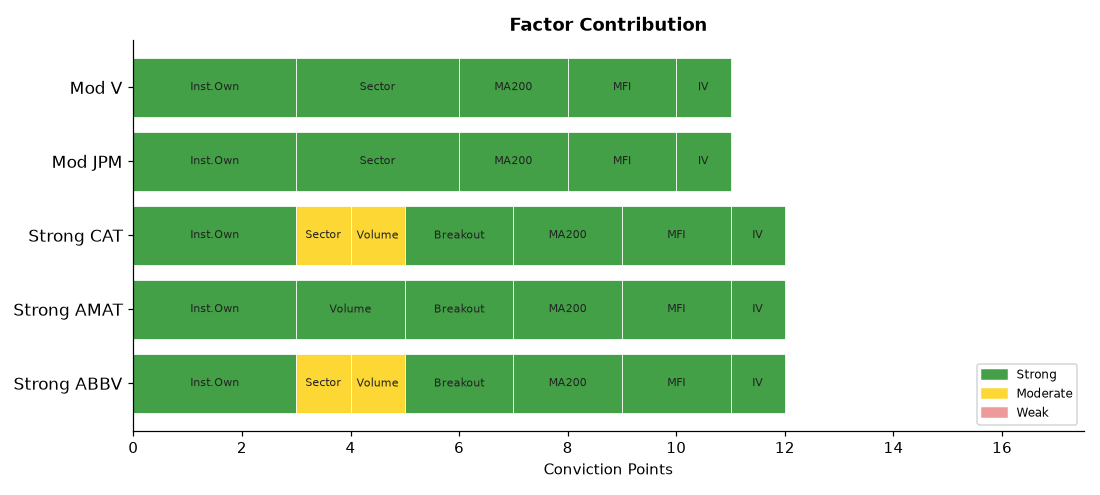
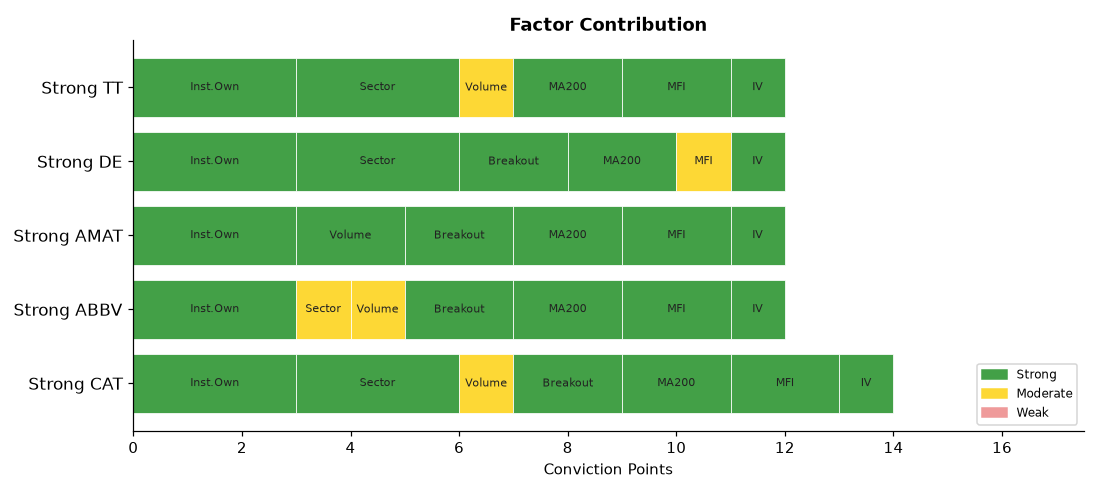
deploy: b7fadf5b06deb90e7ebb92f278722414bdd9750d

diff --git a/index.html b/index.html
@@ -4,7 +4,7 @@
   <meta charset="UTF-8">
   <meta name="viewport" content="width=device-width,initial-scale=1">
   <meta http-equiv="Cache-Control" content="no-cache,no-store,must-revalidate">
-  <title>Stock Breakout Screener — 2026-06-25 21:21</title>
+  <title>Stock Breakout Screener — 2026-06-25 23:11</title>
   <style>
     *{box-sizing:border-box;margin:0;padding:0}
     body{font-family:'Segoe UI',Arial,sans-serif;background:#f0f2f5;
@@ -34,20 +34,20 @@
 
 <div class="hdr">
   <h1>📈 Stock Breakout Screener</h1>
-  <p>Updated: 2026-06-25 21:21 UTC &nbsp;·&nbsp; Phase: After-Hours (4:00–8:00 PM ET) &nbsp;·&nbsp;
+  <p>Updated: 2026-06-25 23:11 UTC &nbsp;·&nbsp; Phase: After-Hours (4:00–8:00 PM ET) &nbsp;·&nbsp;
      129 stocks screened &nbsp;·&nbsp; Top 5 by conviction score</p>
 </div>
 
 <div class="card">
   <strong style="font-size:14px">Market Sentiment: 🐻 Bearish</strong>
   <div class="bar-wrap" style="margin-top:10px">
-    <div style="width:2%;background:#43a047"></div>
-    <div style="width:6%;background:#fdd835"></div>
+    <div style="width:4%;background:#43a047"></div>
+    <div style="width:4%;background:#fdd835"></div>
     <div style="width:92%;background:#e53935"></div>
   </div>
   <div style="font-size:12px;color:#555">
-    🟢 Strong 2% &nbsp;
-    🟡 Moderate 6% &nbsp;
+    🟢 Strong 4% &nbsp;
+    🟡 Moderate 4% &nbsp;
     🔴 Weak 92%
   </div>
 </div>
@@ -60,7 +60,24 @@
           <div style="display:flex;align-items:center;gap:10px;
                       flex-wrap:wrap;margin-bottom:10px">
             <span style="font-size:22px">🟢</span>
-            <span style="font-size:19px;font-weight:700">1. ABBV</span>
+            <span style="font-size:19px;font-weight:700">1. CAT</span>
+            <span style="font-size:12px;color:#666">Industrials</span>
+            <span style="margin-left:auto;background:#1a237e;color:#fff;
+                         padding:3px 12px;border-radius:12px;
+                         font-size:13px;font-weight:600">
+              14/17
+            </span>
+          </div>
+          <ul style="margin:0;padding-left:18px;font-size:13px;
+                     color:#333;line-height:1.8"><li style="margin:5px 0"><span style="background:#fffde7;color:#f57f17;padding:2px 7px;border-radius:4px;font-size:11px;">⚠</span> Volume: <b>1.7× average</b> — Above-average activity</li><li style="margin:5px 0"><span style="background:#e8f5e9;color:#2e7d32;padding:2px 7px;border-radius:4px;font-size:11px;">✅</span> Candle: close <b>$1057.01</b> vs open <b>$1024.64</b> (+3.2%) — regular market close</li><li style="margin:5px 0"><span style="background:#e8f5e9;color:#2e7d32;padding:2px 7px;border-radius:4px;font-size:11px;">✅</span> 200-Day MA: price <b>$1057.01</b> vs MA <b>$772.64</b> — <b>✅ Above</b> long-term trend</li><li style="margin:5px 0"><span style="background:#e8f5e9;color:#2e7d32;padding:2px 7px;border-radius:4px;font-size:11px;">✅</span> Inst. ownership: <b>72.9%</b> · MFI: <b>72.6</b> · Market cap: <b>$486.9B</b></li></ul>
+        </div>
+        <div style="background:#fff;border:1px solid #ddd;border-radius:10px;
+                    padding:16px 20px;margin-bottom:12px;
+                    box-shadow:0 2px 6px rgba(0,0,0,.07)">
+          <div style="display:flex;align-items:center;gap:10px;
+                      flex-wrap:wrap;margin-bottom:10px">
+            <span style="font-size:22px">🟢</span>
+            <span style="font-size:19px;font-weight:700">2. ABBV</span>
             <span style="font-size:12px;color:#666">Healthcare</span>
             <span style="margin-left:auto;background:#1a237e;color:#fff;
                          padding:3px 12px;border-radius:12px;
@@ -77,7 +94,7 @@
           <div style="display:flex;align-items:center;gap:10px;
                       flex-wrap:wrap;margin-bottom:10px">
             <span style="font-size:22px">🟢</span>
-            <span style="font-size:19px;font-weight:700">2. AMAT</span>
+            <span style="font-size:19px;font-weight:700">3. AMAT</span>
             <span style="font-size:12px;color:#666">Technology</span>
             <span style="margin-left:auto;background:#1a237e;color:#fff;
                          padding:3px 12px;border-radius:12px;
@@ -94,7 +111,7 @@
           <div style="display:flex;align-items:center;gap:10px;
                       flex-wrap:wrap;margin-bottom:10px">
             <span style="font-size:22px">🟢</span>
-            <span style="font-size:19px;font-weight:700">3. CAT</span>
+            <span style="font-size:19px;font-weight:700">4. DE</span>
             <span style="font-size:12px;color:#666">Industrials</span>
             <span style="margin-left:auto;background:#1a237e;color:#fff;
                          padding:3px 12px;border-radius:12px;
@@ -103,41 +120,24 @@
             </span>
           </div>
           <ul style="margin:0;padding-left:18px;font-size:13px;
-                     color:#333;line-height:1.8"><li style="margin:5px 0"><span style="background:#fffde7;color:#f57f17;padding:2px 7px;border-radius:4px;font-size:11px;">⚠</span> Volume: <b>1.7× average</b> — Above-average activity</li><li style="margin:5px 0"><span style="background:#e8f5e9;color:#2e7d32;padding:2px 7px;border-radius:4px;font-size:11px;">✅</span> Candle: close <b>$1057.01</b> vs open <b>$1024.64</b> (+3.2%) — regular market close</li><li style="margin:5px 0"><span style="background:#e8f5e9;color:#2e7d32;padding:2px 7px;border-radius:4px;font-size:11px;">✅</span> 200-Day MA: price <b>$1057.01</b> vs MA <b>$772.64</b> — <b>✅ Above</b> long-term trend</li><li style="margin:5px 0"><span style="background:#e8f5e9;color:#2e7d32;padding:2px 7px;border-radius:4px;font-size:11px;">✅</span> Inst. ownership: <b>72.9%</b> · MFI: <b>72.6</b> · Market cap: <b>$486.9B</b></li></ul>
+                     color:#333;line-height:1.8"><li style="margin:5px 0"><span style="background:#ffebee;color:#b71c1c;padding:2px 7px;border-radius:4px;font-size:11px;">❌</span> Volume: <b>0.9× average</b> — Above-average activity</li><li style="margin:5px 0"><span style="background:#e8f5e9;color:#2e7d32;padding:2px 7px;border-radius:4px;font-size:11px;">✅</span> Candle: close <b>$630.76</b> vs open <b>$606.46</b> (+4.0%) — regular market close</li><li style="margin:5px 0"><span style="background:#e8f5e9;color:#2e7d32;padding:2px 7px;border-radius:4px;font-size:11px;">✅</span> 200-Day MA: price <b>$630.76</b> vs MA <b>$566.26</b> — <b>✅ Above</b> long-term trend</li><li style="margin:5px 0"><span style="background:#e8f5e9;color:#2e7d32;padding:2px 7px;border-radius:4px;font-size:11px;">✅</span> Inst. ownership: <b>82.8%</b> · MFI: <b>54.9</b> · Market cap: <b>$170.4B</b></li><li style="margin:5px 0"><span style="background:#ffebee;color:#b71c1c;padding:2px 7px;border-radius:4px;font-size:11px;">❌</span> Last similar breakout: <b>Feb 19, 2026</b> → <b>-10.8%</b> over 10 trading days</li></ul>
         </div>
         <div style="background:#fff;border:1px solid #ddd;border-radius:10px;
                     padding:16px 20px;margin-bottom:12px;
                     box-shadow:0 2px 6px rgba(0,0,0,.07)">
           <div style="display:flex;align-items:center;gap:10px;
                       flex-wrap:wrap;margin-bottom:10px">
-            <span style="font-size:22px">🟡</span>
-            <span style="font-size:19px;font-weight:700">4. JPM</span>
-            <span style="font-size:12px;color:#666">Financials</span>
+            <span style="font-size:22px">🟢</span>
+            <span style="font-size:19px;font-weight:700">5. TT</span>
+            <span style="font-size:12px;color:#666">Industrials</span>
             <span style="margin-left:auto;background:#1a237e;color:#fff;
                          padding:3px 12px;border-radius:12px;
                          font-size:13px;font-weight:600">
-              11/17
+              12/17
             </span>
           </div>
           <ul style="margin:0;padding-left:18px;font-size:13px;
-                     color:#333;line-height:1.8"><li style="margin:5px 0"><span style="background:#ffebee;color:#b71c1c;padding:2px 7px;border-radius:4px;font-size:11px;">❌</span> Volume: <b>0.7× average</b> — Above-average activity</li><li style="margin:5px 0"><span style="background:#ffebee;color:#b71c1c;padding:2px 7px;border-radius:4px;font-size:11px;">❌</span> Candle: close <b>$335.12</b> vs open <b>$334.96</b> (+0.0%) — regular market close</li><li style="margin:5px 0"><span style="background:#e8f5e9;color:#2e7d32;padding:2px 7px;border-radius:4px;font-size:11px;">✅</span> 200-Day MA: price <b>$335.12</b> vs MA <b>$306.17</b> — <b>✅ Above</b> long-term trend</li><li style="margin:5px 0"><span style="background:#e8f5e9;color:#2e7d32;padding:2px 7px;border-radius:4px;font-size:11px;">✅</span> Inst. ownership: <b>75.7%</b> · MFI: <b>71.5</b> · Market cap: <b>$898.0B</b></li></ul>
-        </div>
-        <div style="background:#fff;border:1px solid #ddd;border-radius:10px;
-                    padding:16px 20px;margin-bottom:12px;
-                    box-shadow:0 2px 6px rgba(0,0,0,.07)">
-          <div style="display:flex;align-items:center;gap:10px;
-                      flex-wrap:wrap;margin-bottom:10px">
-            <span style="font-size:22px">🟡</span>
-            <span style="font-size:19px;font-weight:700">5. V</span>
-            <span style="font-size:12px;color:#666">Financials</span>
-            <span style="margin-left:auto;background:#1a237e;color:#fff;
-                         padding:3px 12px;border-radius:12px;
-                         font-size:13px;font-weight:600">
-              11/17
-            </span>
-          </div>
-          <ul style="margin:0;padding-left:18px;font-size:13px;
-                     color:#333;line-height:1.8"><li style="margin:5px 0"><span style="background:#ffebee;color:#b71c1c;padding:2px 7px;border-radius:4px;font-size:11px;">❌</span> Volume: <b>0.7× average</b> — Above-average activity</li><li style="margin:5px 0"><span style="background:#ffebee;color:#b71c1c;padding:2px 7px;border-radius:4px;font-size:11px;">❌</span> Candle: close <b>$330.52</b> vs open <b>$332.56</b> (-0.6%) — regular market close</li><li style="margin:5px 0"><span style="background:#e8f5e9;color:#2e7d32;padding:2px 7px;border-radius:4px;font-size:11px;">✅</span> 200-Day MA: price <b>$330.52</b> vs MA <b>$321.21</b> — <b>✅ Above</b> long-term trend</li><li style="margin:5px 0"><span style="background:#e8f5e9;color:#2e7d32;padding:2px 7px;border-radius:4px;font-size:11px;">✅</span> Inst. ownership: <b>91.7%</b> · MFI: <b>63.8</b> · Market cap: <b>$628.6B</b></li></ul>
+                     color:#333;line-height:1.8"><li style="margin:5px 0"><span style="background:#fffde7;color:#f57f17;padding:2px 7px;border-radius:4px;font-size:11px;">⚠</span> Volume: <b>1.3× average</b> — Above-average activity</li><li style="margin:5px 0"><span style="background:#ffebee;color:#b71c1c;padding:2px 7px;border-radius:4px;font-size:11px;">❌</span> Candle: close <b>$503.46</b> vs open <b>$489.91</b> (+2.8%) — regular market close</li><li style="margin:5px 0"><span style="background:#e8f5e9;color:#2e7d32;padding:2px 7px;border-radius:4px;font-size:11px;">✅</span> 200-Day MA: price <b>$503.46</b> vs MA <b>$442.36</b> — <b>✅ Above</b> long-term trend</li><li style="margin:5px 0"><span style="background:#e8f5e9;color:#2e7d32;padding:2px 7px;border-radius:4px;font-size:11px;">✅</span> Inst. ownership: <b>91.6%</b> · MFI: <b>75.2</b> · Market cap: <b>$111.3B</b></li></ul>
         </div>
 
 
@@ -166,6 +166,24 @@
     <th>Score<br><small>/17</small></th>
   </tr>
   
+        <tr>
+          <td style="font-weight:700;text-align:left;padding-left:10px">
+            🟢 CAT</td>
+          <td style="background:#fff9c4">1.7×</td>
+          <td style="background:#c8e6c9">+3.2%</td>
+          <td style="background:#c8e6c9">
+            ▲ Above</td>
+          <td style="background:#c8e6c9">
+            72.9%</td>
+          <td style="background:#c8e6c9">
+            72.6</td>
+          <td style="background:#c8e6c9">Industrials</td>
+          <td style="background:#c8e6c9">
+            179.7%</td>
+          <td style="background:#ffcdd2">
+            N/A</td>
+          <td style="font-weight:800;font-size:15px">14/17</td>
+        </tr>
         <tr>
           <td style="font-weight:700;text-align:left;padding-left:10px">
             🟢 ABBV</td>
@@ -204,57 +222,39 @@
         </tr>
         <tr>
           <td style="font-weight:700;text-align:left;padding-left:10px">
-            🟢 CAT</td>
-          <td style="background:#fff9c4">1.7×</td>
-          <td style="background:#c8e6c9">+3.2%</td>
+            🟢 DE</td>
+          <td style="background:#ffcdd2">0.9×</td>
+          <td style="background:#c8e6c9">+4.0%</td>
           <td style="background:#c8e6c9">
             ▲ Above</td>
           <td style="background:#c8e6c9">
-            72.9%</td>
+            82.8%</td>
+          <td style="background:#fff9c4">
+            54.9</td>
+          <td style="background:#c8e6c9">Industrials</td>
           <td style="background:#c8e6c9">
-            72.6</td>
-          <td style="background:#fff9c4">Industrials</td>
-          <td style="background:#c8e6c9">
-            179.7%</td>
+            105.5%</td>
           <td style="background:#ffcdd2">
-            N/A</td>
+            -10.8%</td>
           <td style="font-weight:800;font-size:15px">12/17</td>
         </tr>
         <tr>
           <td style="font-weight:700;text-align:left;padding-left:10px">
-            🟡 JPM</td>
-          <td style="background:#ffcdd2">0.7×</td>
-          <td style="background:#ffcdd2">+0.0%</td>
+            🟢 TT</td>
+          <td style="background:#fff9c4">1.3×</td>
+          <td style="background:#ffcdd2">+2.8%</td>
           <td style="background:#c8e6c9">
             ▲ Above</td>
           <td style="background:#c8e6c9">
-            75.7%</td>
+            91.6%</td>
           <td style="background:#c8e6c9">
-            71.5</td>
-          <td style="background:#c8e6c9">Financials</td>
+            75.2</td>
+          <td style="background:#c8e6c9">Industrials</td>
           <td style="background:#c8e6c9">
-            94.2%</td>
+            47.8%</td>
           <td style="background:#ffcdd2">
             N/A</td>
-          <td style="font-weight:800;font-size:15px">11/17</td>
-        </tr>
-        <tr>
-          <td style="font-weight:700;text-align:left;padding-left:10px">
-            🟡 V</td>
-          <td style="background:#ffcdd2">0.7×</td>
-          <td style="background:#ffcdd2">-0.6%</td>
-          <td style="background:#c8e6c9">
-            ▲ Above</td>
-          <td style="background:#c8e6c9">
-            91.7%</td>
-          <td style="background:#c8e6c9">
-            63.8</td>
-          <td style="background:#c8e6c9">Financials</td>
-          <td style="background:#c8e6c9">
-            84.4%</td>
-          <td style="background:#ffcdd2">
-            N/A</td>
-          <td style="font-weight:800;font-size:15px">11/17</td>
+          <td style="font-weight:800;font-size:15px">12/17</td>
         </tr>
 </table>
 </div>
@@ -277,43 +277,43 @@
       
         <tr>
           <td style="text-align:left;padding-left:10px;font-weight:600">
-            #1 Financials</td>
-          <td style="background:#ffebee;color:#c62828;font-weight:700">+nan%</td>
-        </tr>
-        <tr>
-          <td style="text-align:left;padding-left:10px;font-weight:600">
-            #2 Industrials</td>
+            #1 Industrials</td>
           <td style="background:#e8f5e9;color:#2e7d32;font-weight:700">+2.17%</td>
         </tr>
         <tr>
           <td style="text-align:left;padding-left:10px;font-weight:600">
-            #3 Healthcare</td>
+            #2 Healthcare</td>
           <td style="background:#e8f5e9;color:#2e7d32;font-weight:700">+1.49%</td>
         </tr>
         <tr>
           <td style="text-align:left;padding-left:10px;font-weight:600">
-            #4 Materials</td>
+            #3 Materials</td>
           <td style="background:#e8f5e9;color:#2e7d32;font-weight:700">+1.33%</td>
         </tr>
         <tr>
           <td style="text-align:left;padding-left:10px;font-weight:600">
-            #5 Energy</td>
+            #4 Energy</td>
           <td style="background:#e8f5e9;color:#2e7d32;font-weight:700">+0.97%</td>
         </tr>
         <tr>
           <td style="text-align:left;padding-left:10px;font-weight:600">
-            #6 Technology</td>
+            #5 Technology</td>
           <td style="background:#e8f5e9;color:#2e7d32;font-weight:700">+0.83%</td>
         </tr>
         <tr>
           <td style="text-align:left;padding-left:10px;font-weight:600">
-            #7 Utilities</td>
+            #6 Utilities</td>
           <td style="background:#e8f5e9;color:#2e7d32;font-weight:700">+0.68%</td>
         </tr>
         <tr>
           <td style="text-align:left;padding-left:10px;font-weight:600">
-            #8 Real Estate</td>
+            #7 Real Estate</td>
           <td style="background:#e8f5e9;color:#2e7d32;font-weight:700">+0.18%</td>
+        </tr>
+        <tr>
+          <td style="text-align:left;padding-left:10px;font-weight:600">
+            #8 Financials</td>
+          <td style="background:#ffebee;color:#c62828;font-weight:700">-0.50%</td>
         </tr>
         <tr>
           <td style="text-align:left;padding-left:10px;font-weight:600">
@@ -367,7 +367,7 @@
         <li><b>Scoring weights:</b>
             Inst.Own(3) · Sector(3) · Volume(2) · Breakout(2) ·
             MA200(2) · MFI(2) · History(2) · IV(1) = 17pts max</li>
-        <li><b>Run time:</b> 2026-06-25 21:21 UTC — Market phase: After-Hours (4:00–8:00 PM ET)</li>
+        <li><b>Run time:</b> 2026-06-25 23:11 UTC — Market phase: After-Hours (4:00–8:00 PM ET)</li>
       </ul>
     </div>
 
